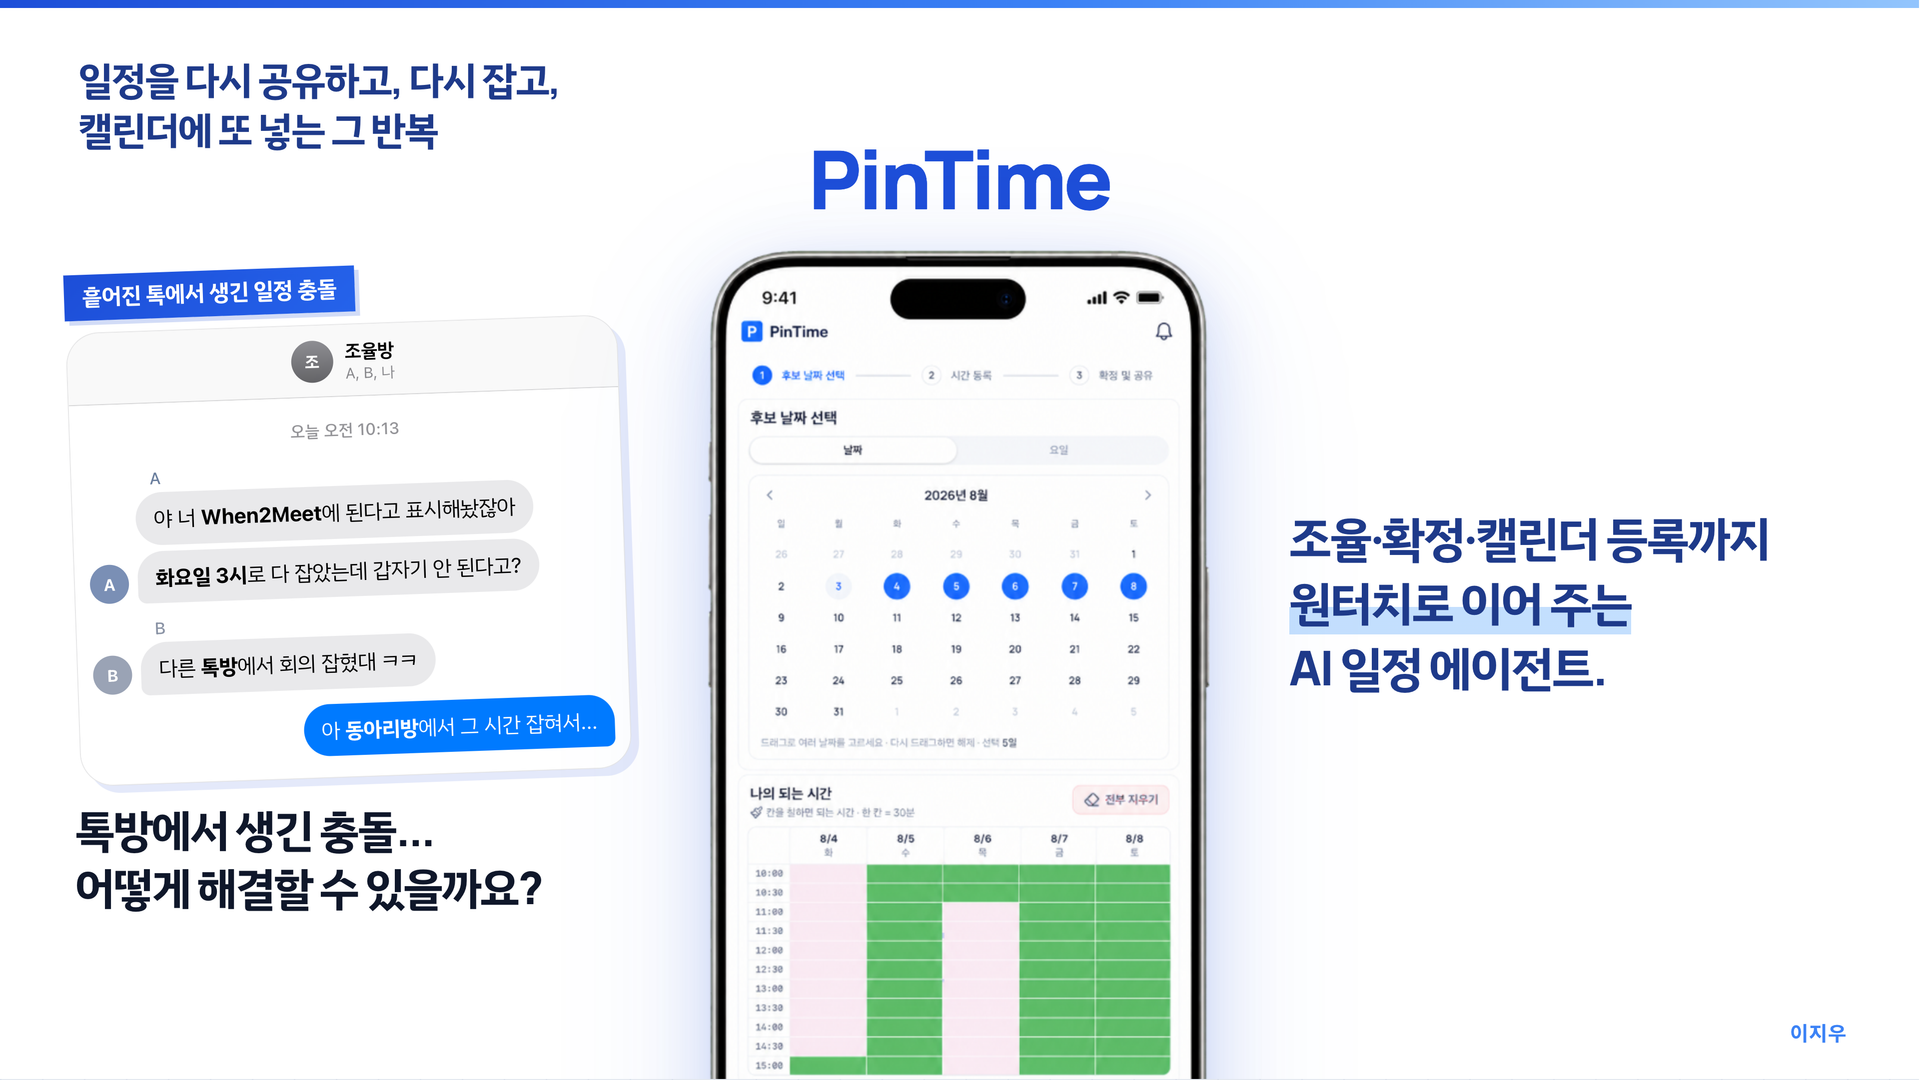
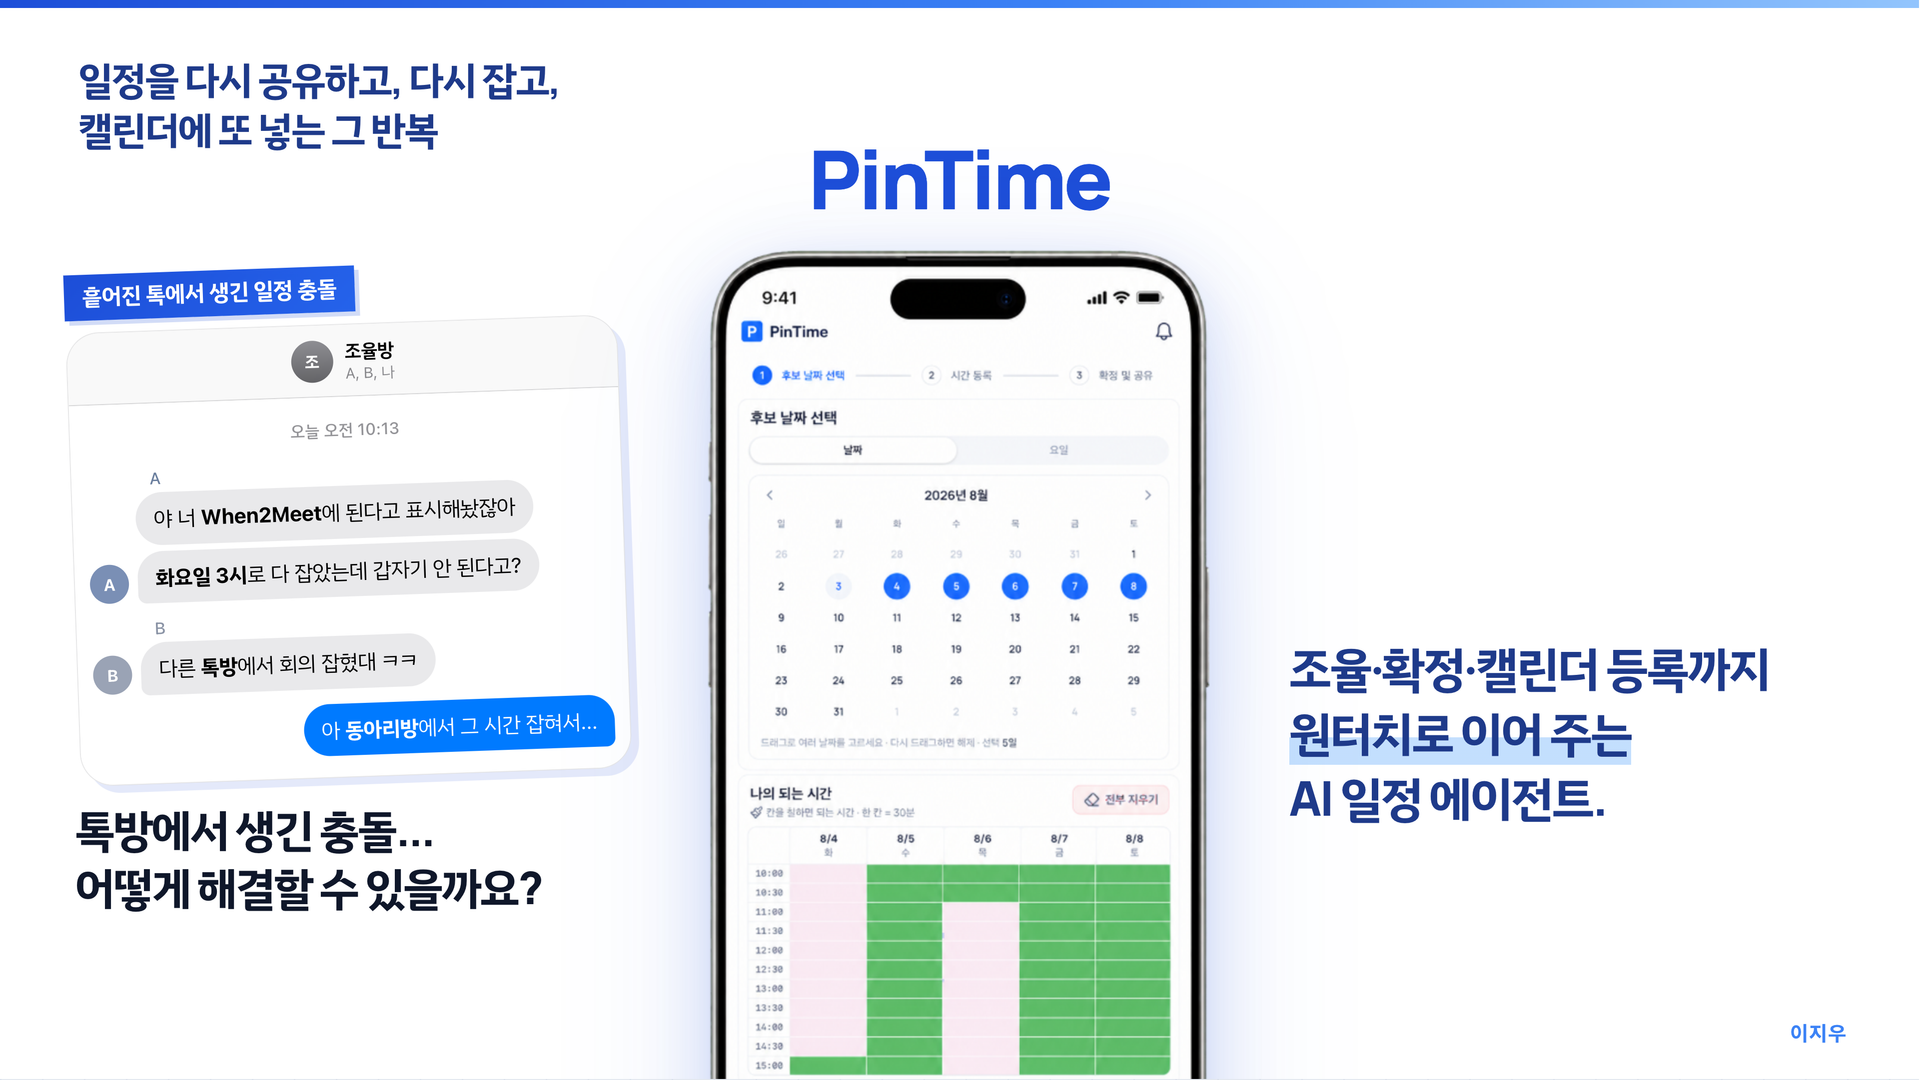
Vertically center cover tagline with the phone.

Changed region(s): [[0.6562, 0.4583, 0.9375, 0.7639]]

diff --git a/public/pitch.html b/public/pitch.html
@@ -1507,7 +1507,7 @@
         color: #1e3a8a;
         align-self: center;
         justify-self: start;
-        transform: translate(-4px, 8px);
+        transform: translate(-4px, 95px);
         word-break: keep-all;
         overflow-wrap: normal;
       }
